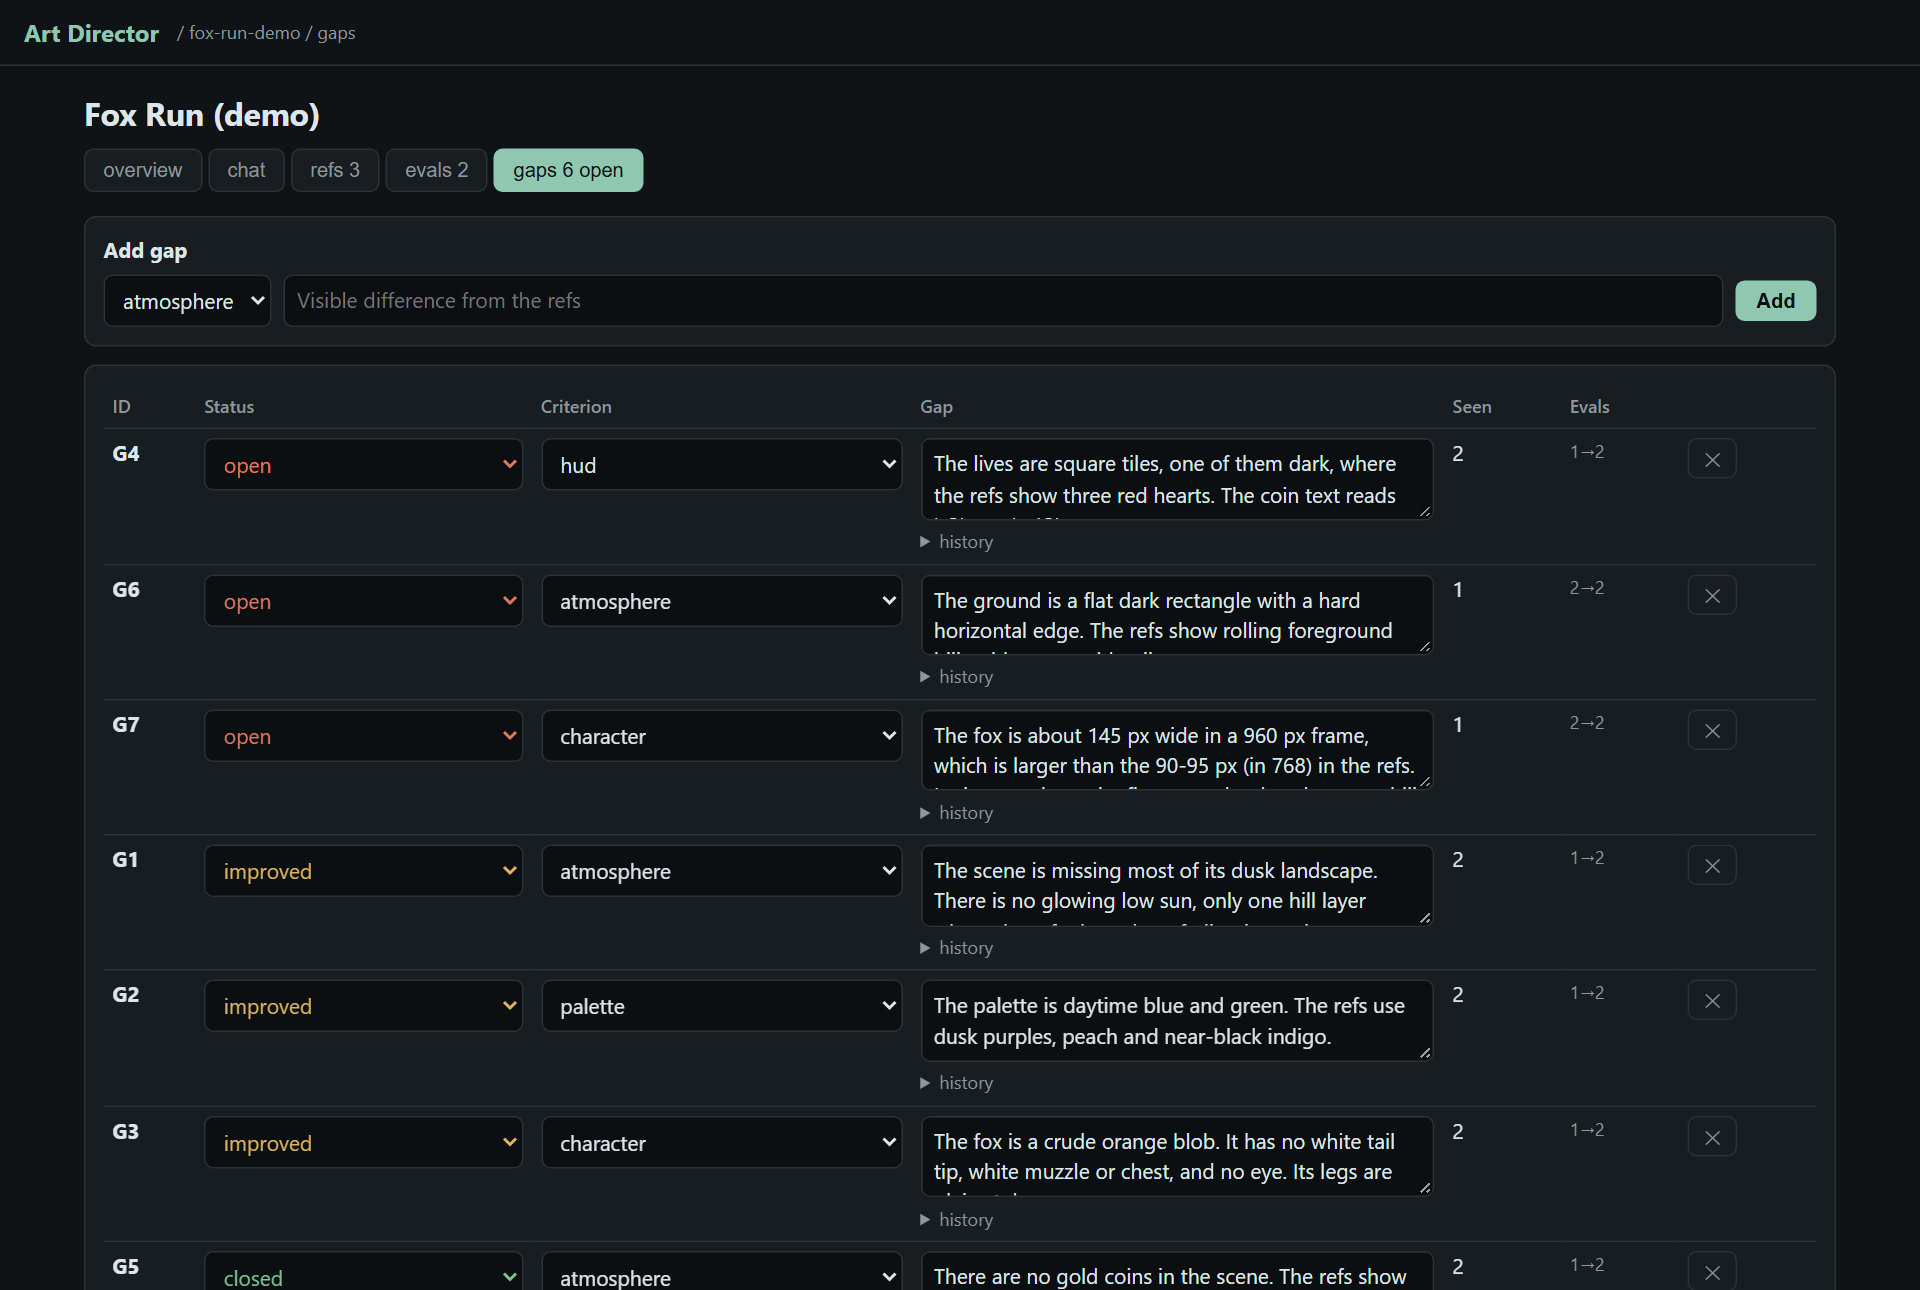
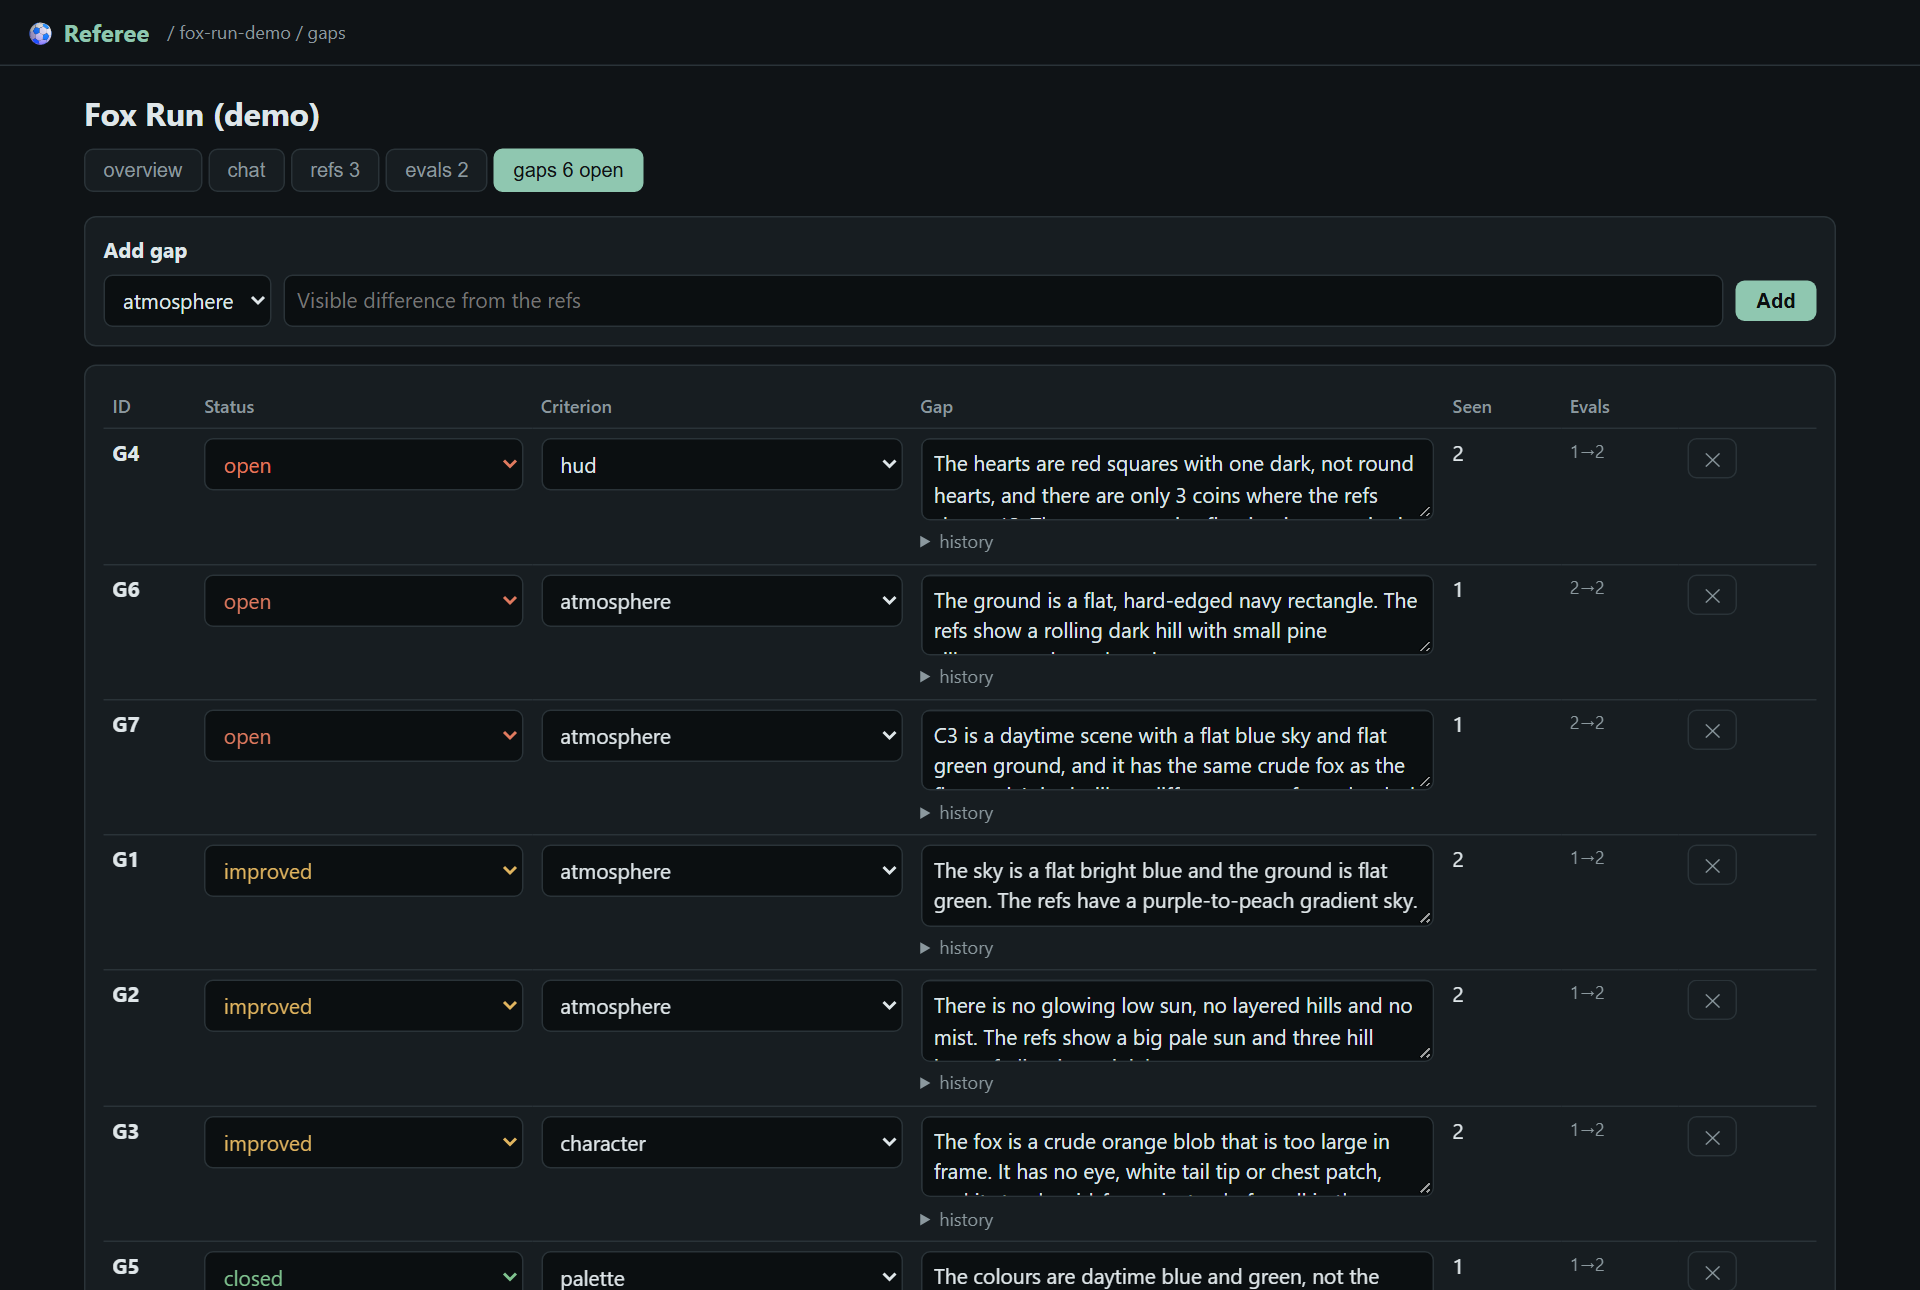
Rename to Referee

diff --git a/ui.html b/ui.html
@@ -3,7 +3,7 @@
 <head>
 <meta charset="utf-8">
 <meta name="viewport" content="width=device-width, initial-scale=1">
-<title>Art Director</title>
+<title>Referee</title>
 <style>
 :root { --bg:#0f1316; --panel:#171d21; --line:#2a3338; --text:#dfe6e9; --dim:#8b989e; --accent:#8fc7b0; --bad:#e07a5f; --warn:#e0b45f; --good:#7fc28f; }
 * { box-sizing:border-box; }
@@ -37,7 +37,7 @@ a { color:var(--accent); }
 </style>
 </head>
 <body>
-<header><h1 onclick="go('')">Art Director</h1><span id="crumb" class="small"></span></header>
+<header><h1 onclick="go('')">⚽ Referee</h1><span id="crumb" class="small"></span></header>
 <main id="app">Loading…</main>
 <div id="zoom" onclick="this.style.display='none'"><img></div>
 <script>
@@ -62,11 +62,11 @@ async function render() {
 
 async function listView() {
   const ps = await api('/projects');
-  const key = (() => { try { return localStorage.getItem('artdir.sort') || 'last' } catch { return 'last' } })();
+  const key = (() => { try { return localStorage.getItem('referee.sort') || 'last' } catch { return 'last' } })();
   const ago = t => { if (!t) return 'never'; const m = Math.round((Date.now() - new Date(t)) / 60000); return m < 60 ? m + 'm ago' : m < 2880 ? Math.round(m / 60) + 'h ago' : Math.round(m / 1440) + 'd ago'; };
   const sorters = { last: (a, b) => (b.last_eval_at || '').localeCompare(a.last_eval_at || ''), name: (a, b) => a.name.localeCompare(b.name), evals: (a, b) => b.evals - a.evals, score: (a, b) => (b.last_overall ?? -1) - (a.last_overall ?? -1) };
   ps.sort(sorters[key] || sorters.last);
-  const th = (k, label) => `<th style="cursor:pointer" onclick="try{localStorage.setItem('artdir.sort','${k}')}catch{};render()">${label}${key === k ? ' ▾' : ''}</th>`;
+  const th = (k, label) => `<th style="cursor:pointer" onclick="try{localStorage.setItem('referee.sort','${k}')}catch{};render()">${label}${key === k ? ' ▾' : ''}</th>`;
   const stale = t => t && (Date.now() - new Date(t)) > 2 * 3600e3;
   $('#app').innerHTML = `
     <div class="card scroll"><table><tr>${th('name', 'Project')}${th('last', 'Last eval')}${th('score', 'Score')}${th('evals', 'Evals')}<th>Gaps</th><th>Refs</th></tr>

diff --git a/README.md b/README.md
@@ -1,6 +1,6 @@
-# Art Director
+# ⚽ Referee
 
-Art Director is a small web service that scores screenshots of a build against reference images. Autonomous coding agents call it after each round of work. It tells them what still looks wrong and what to build next.
+Referee is a small web service that scores screenshots of a build against reference images. Autonomous coding agents call it after each round of work. It tells them what still looks wrong and what to build next.
 
 The judge is code-blind. It sees only images (and, for slide decks, the pages and speaker notes). It never sees the source code, logs or the agent's own claims about its progress. The score changes only when the screenshots change.
 
@@ -8,7 +8,7 @@ The judge is code-blind. It sees only images (and, for slide decks, the pages an
 
 ## Why it exists
 
-An agent that runs for hours on a game or a deck tends to drift. It fixes small things it can measure, writes reports about its own progress and stops adding features. It often rates its own work higher than a person would. Art Director reviews the agent's screenshots and remembers earlier rounds:
+An agent that runs for hours on a game or a deck tends to drift. It fixes small things it can measure, writes reports about its own progress and stops adding features. It often rates its own work higher than a person would. Referee reviews the agent's screenshots and remembers earlier rounds:
 
 - The judge compares each round with target images you chose and with the previous round.
 - It keeps a ledger of visible gaps across rounds, so it does not report the same problem in new words every time.
@@ -35,7 +35,7 @@ flowchart LR
   subgraph Agent side
     A[Coding agent<br/>Codex, Claude Code, any agent] -->|captures stills, video, PDF| C[(screenshots)]
   end
-  C -->|POST /projects/:id/evals| S[Art Director server<br/>server.mjs]
+  C -->|POST /projects/:id/evals| S[Referee server<br/>server.mjs]
   S --> I[Ingest<br/>images to JPEG, video to frame sheets,<br/>PDF to pages, perceptual hash]
   I -->|repeat of last round| X[Reject]
   I --> P[Prompt builder<br/>refs + candidates + previous round<br/>+ criteria + calibration + open gaps]
@@ -62,8 +62,8 @@ Requirements:
 - Optional: Python with `pymupdf` (`pip install pymupdf`) to judge PDFs.
 
 ```sh
-git clone https://github.com/<you>/artdirector
-cd artdirector
+git clone https://github.com/<you>/referee
+cd referee
 node server.mjs            # or ./start.sh, or start.cmd on Windows
 # open http://127.0.0.1:4600/
 ```
@@ -80,26 +80,26 @@ node examples/demo/run-demo.mjs round2    # judge round 2 and see the scores mov
 
 ## Configuration
 
-Settings come from environment variables, then `config.json` in the repo folder (or the file named in `ARTDIR_CONFIG`), then the defaults. Copy `config.example.json` to `config.json` to start.
+Settings come from environment variables, then `config.json` in the repo folder (or the file named in `REFEREE_CONFIG`), then the defaults. Copy `config.example.json` to `config.json` to start.
 
 | config.json key | Environment variable | Default | Meaning |
 |---|---|---|---|
-| `port` | `ARTDIR_PORT` | `4600` | HTTP port |
-| `host` | `ARTDIR_HOST` | `127.0.0.1` | Bind address. The API has no auth, so keep it on localhost unless you trust the network |
-| `data_dir` | `ARTDIR_DATA` | `data` | Where projects, refs and evals are stored |
-| `default_backend` | `ARTDIR_BACKEND` | `claude` | Backend for new projects: `claude` or `openai` |
-| `fallback` | `ARTDIR_FALLBACK` | `openai` | When `claude` fails (usage limit, login, error), retry on the OpenAI-compatible backend. `none` turns this off |
-| `claude_bin` | `ARTDIR_CLAUDE_BIN` | `claude` | Path to the Claude Code CLI |
-| `claude_model` | `ARTDIR_CLAUDE_MODEL` | `sonnet` | Model passed to `claude -p --model` |
-| `openai_url` | `ARTDIR_OPENAI_URL` | `http://127.0.0.1:8000/v1/chat/completions` | Any OpenAI-compatible chat completions URL that accepts images (vLLM, llama.cpp server, LM Studio, Ollama, OpenAI) |
-| `openai_model` | `ARTDIR_OPENAI_MODEL` | `local-vision-model` | Model name sent to that endpoint |
-| `openai_api_key` | `ARTDIR_OPENAI_API_KEY` | empty | Sent as `Authorization: Bearer` when set |
-| `python` | `ARTDIR_PYTHON` | `python` | Python used for PDF rendering |
-| `judge_timeout_min` | `ARTDIR_JUDGE_TIMEOUT_MIN` | `20` | Timeout for one judge call |
-| `stuck_after` | `ARTDIR_STUCK_AFTER` | `5` | A gap open for this many evals is marked stuck |
-| `supervise_every_min` | `ARTDIR_SUPERVISE_EVERY_MIN` | `10` | How often the supervisor checks agents |
-| `agent_rules` | `ARTDIR_AGENT_RULES` | built in | Working rules returned with every eval. A project can override them with `settings.agent_rules` |
-| `allow_agent_commands` | `ARTDIR_ALLOW_AGENT_COMMANDS` | `false` | Allows the `command` agent channel, which runs a shell command |
+| `port` | `REFEREE_PORT` | `4600` | HTTP port |
+| `host` | `REFEREE_HOST` | `127.0.0.1` | Bind address. The API has no auth, so keep it on localhost unless you trust the network |
+| `data_dir` | `REFEREE_DATA` | `data` | Where projects, refs and evals are stored |
+| `default_backend` | `REFEREE_BACKEND` | `claude` | Backend for new projects: `claude` or `openai` |
+| `fallback` | `REFEREE_FALLBACK` | `openai` | When `claude` fails (usage limit, login, error), retry on the OpenAI-compatible backend. `none` turns this off |
+| `claude_bin` | `REFEREE_CLAUDE_BIN` | `claude` | Path to the Claude Code CLI |
+| `claude_model` | `REFEREE_CLAUDE_MODEL` | `sonnet` | Model passed to `claude -p --model` |
+| `openai_url` | `REFEREE_OPENAI_URL` | `http://127.0.0.1:8000/v1/chat/completions` | Any OpenAI-compatible chat completions URL that accepts images (vLLM, llama.cpp server, LM Studio, Ollama, OpenAI) |
+| `openai_model` | `REFEREE_OPENAI_MODEL` | `local-vision-model` | Model name sent to that endpoint |
+| `openai_api_key` | `REFEREE_OPENAI_API_KEY` | empty | Sent as `Authorization: Bearer` when set |
+| `python` | `REFEREE_PYTHON` | `python` | Python used for PDF rendering |
+| `judge_timeout_min` | `REFEREE_JUDGE_TIMEOUT_MIN` | `20` | Timeout for one judge call |
+| `stuck_after` | `REFEREE_STUCK_AFTER` | `5` | A gap open for this many evals is marked stuck |
+| `supervise_every_min` | `REFEREE_SUPERVISE_EVERY_MIN` | `10` | How often the supervisor checks agents |
+| `agent_rules` | `REFEREE_AGENT_RULES` | built in | Working rules returned with every eval. A project can override them with `settings.agent_rules` |
+| `allow_agent_commands` | `REFEREE_ALLOW_AGENT_COMMANDS` | `false` | Allows the `command` agent channel, which runs a shell command |
 
 The Claude backend copies the images into an empty temp folder and runs `claude -p --allowedTools Read` there, so the model can open the images and nothing else. The OpenAI-compatible backend sends the images inline as base64 data URLs.
 
@@ -182,7 +182,7 @@ Tell the judge how to reach the agent with `PATCH /projects/:id` (`{"agent": {..
 | tmux | `{"type":"tmux","target":"build:0.0"}` | Pasted into the tmux pane as one bracketed paste, then Enter. Works with Codex, Claude Code or any terminal agent. Add `"wsl": true` to run tmux inside WSL from Windows |
 | Claude Code | `{"type":"claude","session":"<id>","name":"builder"}` | Stops the background session and resumes it with the message (`claude --bg --resume`). Needs a Claude Code version with background sessions |
 | Webhook | `{"type":"webhook","url":"https://...","busy_url":"https://..."}` | POSTs `{project, eval, kind, text}` as JSON. If `busy_url` returns `{"busy": true}`, the nudge waits |
-| Command | `{"type":"command","run":"./notify.sh"}` | Runs a shell command with the message on stdin and in `ARTDIR_MESSAGE`. Off unless `allow_agent_commands` is true |
+| Command | `{"type":"command","run":"./notify.sh"}` | Runs a shell command with the message on stdin and in `REFEREE_MESSAGE`. Off unless `allow_agent_commands` is true |
 
 Every delivery is logged to `data/nudges.log`.
 
